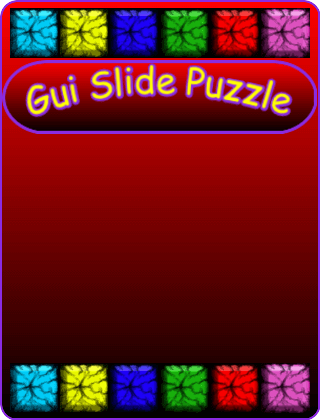
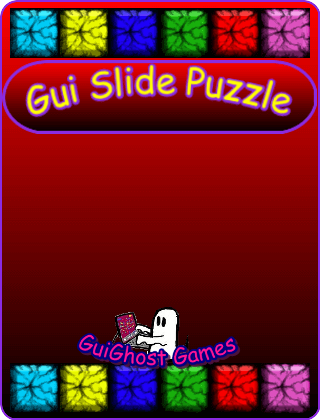
GuiSlide tut update

Changed region(s): [[0.2188, 0.7119, 0.75, 0.8976]]

diff --git a/GuiSlidePuzzle/game.js b/GuiSlidePuzzle/game.js
@@ -1,3 +1,6 @@
+//GuiSlide Puzzle - GuiGhost Games 2018
+//Credits to http://www.emanueleferonato.com/ for the tuturial on the javascript that started this project
+
 var game;
 var gameOptions = {
     gameWidth: 320,
@@ -58,6 +61,7 @@ playGame.prototype = {
         game.load.image("multiBonus", "multiMatch.png", 128, 128);
         game.load.image("levelUpPop", "levelUp.png", 150, 131);
         game.load.image("timeUp", "timeUp2.png", 128, 128);
+        game.load.image("cover1", "borderedFull.png", gameOptions.gameWidth, gameOptions.gameHeight);
         game.load.image("slide1", "slide1.png", gameOptions.gameWidth, gameOptions.gameHeight);
         game.load.image("slide2", "slide2.png", gameOptions.gameWidth, gameOptions.gameHeight);
         game.load.image("slide3", "slide3.png", gameOptions.gameWidth, gameOptions.gameHeight);
@@ -102,6 +106,8 @@ playGame.prototype = {
        this.textStyle3 = { font: "28px Comic Sans MS", fill: "Black", align: "center" };
        this.textStyle4 = { font: "16px Comic Sans MS", fill: "Green", align: "center" };
        this.textStyle4 = { font: "12px Comic Sans MS", fill: "Yellow", align: "center" };
+       this.textStyle5 = { font: "20px Comic Sans MS", fill: "Yellow", align: "center", align: 'center', wordWrap: true, wordWrapWidth: 250  };
+      
        var leveltext = game.add.text(20, 345, "Level", textStyle);
        this.levelScore = game.add.text(40, 371, playerLevel, textStyle);
        var scoretext = game.add.text(235, 345, "Score", textStyle);
@@ -132,13 +138,29 @@ playGame.prototype = {
         game.input.onDown.add(this.pickTile, this);
         this.bonusGraphic = game.add.sprite(95, 50, "multiBonus");
         this.bonusGraphic.visible = false;
+        
 
-
-         var gameCover = game.add.sprite(0, 0, "slide1");
-        var newBtn1 = game.add.sprite(105, 295, "newGame");
+        this.gameCover = game.add.sprite(0, 0, "cover1");
+        var tutText = game.add.text(162, 190, "Unique Match 3 Play  where players can slide blocks as far as they want", this.textStyle5);
+        function scrollText() {
+            setTimeout(function () { tutText.text = "Columns and Rows wrap around for you to make optimal matches"; }, 3500);
+            setTimeout(function () { tutText.text = "WATCH YOUR TIME - Earn the Level Goal at the bottom to gain Bonus Time"; }, 7500);
+            setTimeout(function () { tutText.text = "Earn GuiGhost STARCASH for each level you achieve!"; }, 11000);
+            setTimeout(function () { tutText.text = "WHAT ARE YOU WAITING FOR?"; }, 14000);
+            setTimeout(function () { tutText.text = "PLAY NOW!"; scrollText(); }, 15600);
+            setTimeout(function () { tutText.text = "Unique Match 3 Play  where players can slide blocks as far as they want"; scrollText(); }, 17000);
+        };
+        scrollText();
+      
+        tutText.anchor.set(0.5);
+        var newBtn1 = game.add.sprite(105, 255, "newGame");
         newBtn1.inputEnabled = true;
         newBtn1.events.onInputDown.add(startIt, this);
-        function startIt() { newBtn1.destroy(); gameCover.destroy(); game.input.onDown.add(this.pickTile, this); timer.start(); }
+        function startIt() {
+            newBtn1.destroy(); this.gameCover.destroy(); tutText.destroy();
+            game.input.onDown.add(this.pickTile, this);
+            timer.start();
+        }
         //this.animateCover();
         this.gameState = GAME_STATE_IDLE;
     },

diff --git a/GuiStack/index.html b/GuiStack/index.html
@@ -1,6 +1,7 @@
 <!DOCTYPE html>
 <!--GuiGhost Games - GuiStack- Tower of Balance-->
 
+
 <html>
     <head>
 		<title>GuiStack Tower Of Balance</title>
@@ -236,3 +237,4 @@
         <div id = "wrongorientation"></div>
     </body>
 </html>
+<!--//Credits to http://www.emanueleferonato.com/ for the tuturial on the javascript that started this project-->

diff --git a/GuiSlidePuzzle/index.html b/GuiSlidePuzzle/index.html
@@ -1,5 +1,5 @@
 <!DOCTYPE html>
-<!-- Gui Puzzle Slide -->
+<!-- Gui Slide Puzzle -->
 
 <html>
 	<head>
@@ -68,7 +68,7 @@
             <!--</div>-->
        
         </div>
-        <script type="text/javascript" src="gameMin.js"></script>
+        <script type="text/javascript" src="game.js"></script>
 	</body>
 
 </html>

diff --git a/GuiStack/guiStack.js b/GuiStack/guiStack.js
@@ -1,4 +1,5 @@
-
+//GuiStack - Tower of Balance - GuiGhost Games 2018
+//Credits to http://www.emanueleferonato.com/ for the tuturial on the javascript that started this project
 var game;
 var levelScore = 0;
 var oldLevelScore = 0;
